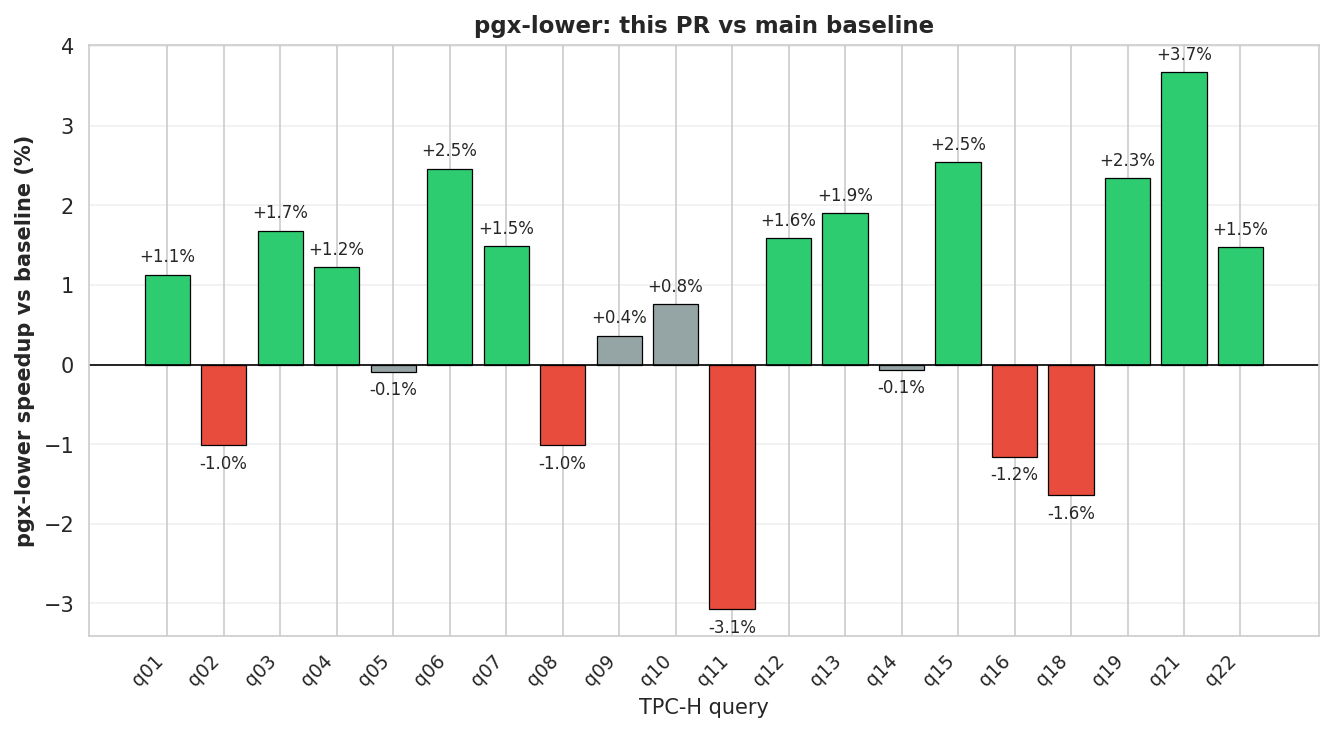
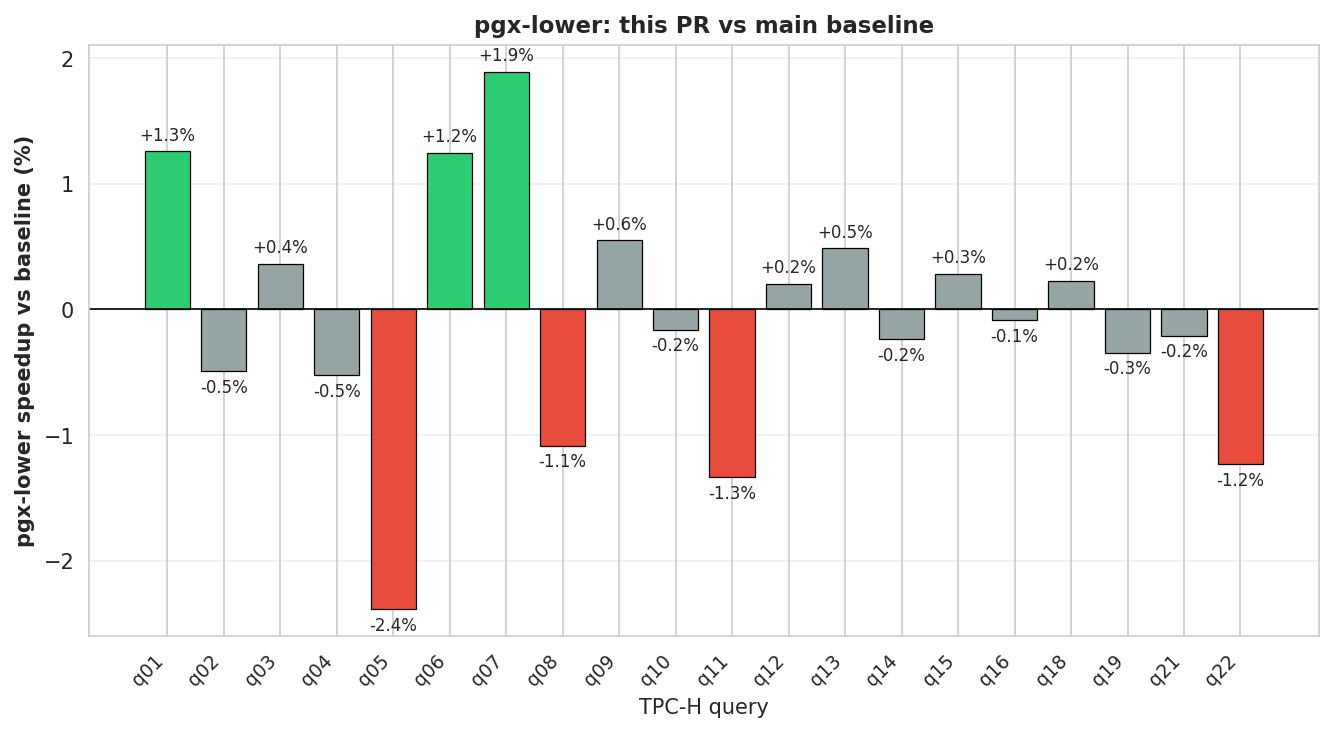
Address review feedback on PR #33
- Delete dead setupMLIRContextForJIT + initialize_mlir_context from
  mlir_runner_passes.cpp; standalone test harness now loads dialects
  inline. Removes forward decls from mlir_runner.h / mlir_pipeline.h.
- Fix diagnostic handler severity dispatch in mlir_runtime.cpp: Error
  → PGX_ERROR, Warning → PGX_WARNING, Note/Remark → PGX_LOG(DEBUG).
  Previously all severities fell through to PGX_WARNING.
- Re-run SF=0.5 bench: q11 settled to -1.3% (was -3.1%) — single-sample
  noise on iter=1, not a real regression. Geomean ~flat, verdict MAYBE.

diff --git a/src/pgx-lower/execution/mlir_setup/mlir_runner_passes.cpp b/src/pgx-lower/execution/mlir_setup/mlir_runner_passes.cpp
@@ -47,72 +47,8 @@ extern "C" void initialize_mlir_passes() {
     }
 }
 
-namespace mlir_runner {
-
-bool setupMLIRContextForJIT(::mlir::MLIRContext& context) {
-    if (!initialize_mlir_context(context)) {
-        PGX_ERROR("Failed to initialize MLIR context and dialects");
-        return false;
-    }
-
-    context.getDiagEngine().registerHandler([](mlir::Diagnostic &diag) {
-        std::string diagStr;
-        llvm::raw_string_ostream os(diagStr);
-        
-        std::string locStr;
-        llvm::raw_string_ostream locOs(locStr);
-        diag.getLocation().print(locOs);
-        locOs.flush();
-        
-        diag.print(os);
-        os.flush();
-        
-        switch (diag.getSeverity()) {
-            case mlir::DiagnosticSeverity::Error:
-            case mlir::DiagnosticSeverity::Warning:
-            case mlir::DiagnosticSeverity::Note:
-            case mlir::DiagnosticSeverity::Remark:
-                PGX_WARNING("MLIR Note at %s: %s",
-                       locStr.empty() ? "unknown" : locStr.c_str(), 
-                       diagStr.c_str());
-                break;
-        }
-        
-        return mlir::success();
-    });
-
-    context.getOrLoadDialect<::mlir::relalg::RelAlgDialect>();
-    context.getOrLoadDialect<::mlir::db::DBDialect>();
-    context.getOrLoadDialect<::mlir::dsa::DSADialect>();
-    context.getOrLoadDialect<::mlir::util::UtilDialect>();
-    context.getOrLoadDialect<mlir::LLVM::LLVMDialect>();
-    context.getOrLoadDialect<mlir::scf::SCFDialect>();
-    context.getOrLoadDialect<mlir::memref::MemRefDialect>();
-    context.getOrLoadDialect<mlir::cf::ControlFlowDialect>();
-
-    return true;
-}
-
-bool initialize_mlir_context(::mlir::MLIRContext& context) {
-    try {
-        context.disableMultithreading();
-
-        context.getOrLoadDialect<mlir::func::FuncDialect>();
-        context.getOrLoadDialect<mlir::arith::ArithDialect>();
-        context.getOrLoadDialect<::mlir::relalg::RelAlgDialect>();
-        context.getOrLoadDialect<::mlir::db::DBDialect>();
-        context.getOrLoadDialect<::mlir::dsa::DSADialect>();
-        context.getOrLoadDialect<::mlir::util::UtilDialect>();
-
-        return true;
-
-    } catch (const std::exception& e) {
-        PGX_ERROR("Failed to initialize MLIR context: %s", e.what());
-        return false;
-    } catch (...) {
-        PGX_ERROR("Unknown error during MLIR context initialization");
-        return false;
-    }
-}
-
-} // namespace mlir_runner
+// setupMLIRContextForJIT + initialize_mlir_context used to live here.
+// Spec 01 hoisted all per-query MLIR-context setup into the
+// MLIRRuntime singleton (mlir_runtime.cpp). The unit-test harness
+// StandalonePipelineTester loads dialects inline for its own fresh
+// context.

diff --git a/tests/unit/test_lowerings/standalone_mlir_runner.cpp b/tests/unit/test_lowerings/standalone_mlir_runner.cpp
@@ -6,6 +6,15 @@
 #include "llvm/Support/raw_ostream.h"
 #include "pgx-lower/execution/mlir_runner.h"
 #include "lingodb/mlir/Dialect/RelAlg/IR/RelAlgDialect.h"
+#include "lingodb/mlir/Dialect/DB/IR/DBDialect.h"
+#include "lingodb/mlir/Dialect/DSA/IR/DSADialect.h"
+#include "lingodb/mlir/Dialect/util/UtilDialect.h"
+#include "mlir/Dialect/Arith/IR/Arith.h"
+#include "mlir/Dialect/ControlFlow/IR/ControlFlow.h"
+#include "mlir/Dialect/Func/IR/FuncOps.h"
+#include "mlir/Dialect/LLVMIR/LLVMDialect.h"
+#include "mlir/Dialect/MemRef/IR/MemRef.h"
+#include "mlir/Dialect/SCF/IR/SCF.h"
 
 namespace pgx_test {
 
@@ -15,8 +24,22 @@ StandalonePipelineTester::StandalonePipelineTester() {
 }
 
 bool StandalonePipelineTester::setupMLIRContext() {
+    // Test harness wants a fresh MLIRContext per test to avoid state
+    // bleed between TEST_F instances. Load the same dialect set that
+    // production (MLIRRuntime singleton) loads.
     context_ = std::make_unique<mlir::MLIRContext>();
-    return mlir_runner::setupMLIRContextForJIT(*context_);
+    context_->disableMultithreading();
+    context_->getOrLoadDialect<mlir::func::FuncDialect>();
+    context_->getOrLoadDialect<mlir::arith::ArithDialect>();
+    context_->getOrLoadDialect<mlir::scf::SCFDialect>();
+    context_->getOrLoadDialect<mlir::memref::MemRefDialect>();
+    context_->getOrLoadDialect<mlir::cf::ControlFlowDialect>();
+    context_->getOrLoadDialect<mlir::LLVM::LLVMDialect>();
+    context_->getOrLoadDialect<mlir::relalg::RelAlgDialect>();
+    context_->getOrLoadDialect<mlir::db::DBDialect>();
+    context_->getOrLoadDialect<mlir::dsa::DSADialect>();
+    context_->getOrLoadDialect<mlir::util::UtilDialect>();
+    return true;
 }
 
 mlir::OpBuilder* StandalonePipelineTester::getBuilder() {

diff --git a/src/pgx-lower/execution/mlir_setup/mlir_runtime.cpp b/src/pgx-lower/execution/mlir_setup/mlir_runtime.cpp
@@ -79,14 +79,17 @@ void install_diagnostic_handler(mlir::MLIRContext& context) {
         diag.print(os);
         os.flush();
 
+        const char* loc = locStr.empty() ? "unknown" : locStr.c_str();
         switch (diag.getSeverity()) {
             case mlir::DiagnosticSeverity::Error:
+                PGX_ERROR("MLIR Error at %s: %s", loc, diagStr.c_str());
+                break;
             case mlir::DiagnosticSeverity::Warning:
+                PGX_WARNING("MLIR Warning at %s: %s", loc, diagStr.c_str());
+                break;
             case mlir::DiagnosticSeverity::Note:
             case mlir::DiagnosticSeverity::Remark:
-                PGX_WARNING("MLIR Note at %s: %s",
-                            locStr.empty() ? "unknown" : locStr.c_str(),
-                            diagStr.c_str());
+                PGX_LOG(GENERAL, DEBUG, "MLIR Note at %s: %s", loc, diagStr.c_str());
                 break;
         }
 

diff --git a/include/pgx-lower/execution/mlir_runner.h b/include/pgx-lower/execution/mlir_runner.h
@@ -28,8 +28,6 @@ namespace mlir_runner {
 
 using ExternalFunction = std::function<int64_t()>;
 
-bool initialize_mlir_context(::mlir::MLIRContext& context);
-bool setupMLIRContextForJIT(::mlir::MLIRContext& context);
 bool executeJITWithDestReceiver(mlir::ModuleOp module, EState* estate, DestReceiver* dest);
 auto run_mlir_postgres_ast_translation(PlannedStmt* plannedStmt) -> bool;
 auto run_mlir_with_estate(PlannedStmt* plannedStmt, EState* estate, ExprContext* econtext) -> bool;

diff --git a/src/pgx-lower/execution/mlir_runner.cpp b/src/pgx-lower/execution/mlir_runner.cpp
@@ -56,7 +56,6 @@ extern "C" {
 
 namespace mlir_runner {
 
-bool setupMLIRContextForJIT(::mlir::MLIRContext& context);
 bool runCompleteLoweringPipeline(::mlir::ModuleOp module);
 bool executeJITWithDestReceiver(::mlir::ModuleOp module, EState* estate, DestReceiver* dest);
 

diff --git a/include/pgx-lower/execution/mlir_pipeline.h b/include/pgx-lower/execution/mlir_pipeline.h
@@ -8,7 +8,6 @@ class ModuleOp;
 
 namespace mlir_runner {
 
-bool setupMLIRContextForJIT(::mlir::MLIRContext& context);
 bool runPhase3a(::mlir::ModuleOp module);
 bool runPhase3b(::mlir::ModuleOp module);
 bool runPhase3c(::mlir::ModuleOp module);

diff --git a/benchmarks/pr-33-spec-01-hoist.md b/benchmarks/pr-33-spec-01-hoist.md
@@ -1,8 +1,8 @@
 ## 🟡 MAYBE — in the noise band
 
-- **Geomean speedup vs baseline:** +0.7% ⚪
+- **Geomean speedup vs baseline:** -0.1% ⚪
 - **Scale factor:** 0.5, iterations: 1
-- **Baseline:** `unknown` (2026-04-19T11:26:13.653812)
+- **Baseline:** `unknown` (2026-04-19T22:00:59.163496)
 - **Current:**  `unknown` (2026-04-19T22:04:09.662712)
 
 ![bench diff](https://raw.githubusercontent.com/zyros-dev/pgx-lower/spec-01-hoist/benchmarks/pr-33-spec-01-hoist.png)
@@ -11,23 +11,23 @@ PG column is PostgreSQL-only runtime from the current run — reference for abso
 
 | Query | PG (ms) | pgx baseline (ms) | pgx current (ms) | Δ | ✓ |
 |-------|--------:|------------------:|-----------------:|--:|:--|
-| q01 | 916.6 | 5236.5 | 5177.4 | +1.1% 🟢 | ✅ |
-| q02 | 125.0 | 2048.5 | 2069.3 | -1.0% 🔴 | ✅ |
-| q03 | 297.6 | 6263.8 | 6158.7 | +1.7% 🟢 | ✅ |
-| q04 | 102.9 | 2603.3 | 2571.6 | +1.2% 🟢 | ✅ |
-| q05 | 115.4 | 3294.2 | 3297.1 | -0.1% ⚪ | ✅ |
-| q06 | 149.2 | 2844.2 | 2774.3 | +2.5% 🟢 | ✅ |
-| q07 | 159.3 | 3468.2 | 3416.6 | +1.5% 🟢 | ✅ |
-| q08 | 258.5 | 3547.7 | 3583.7 | -1.0% 🔴 | ✅ |
-| q09 | 583.8 | 6503.9 | 6480.5 | +0.4% ⚪ | ✅ |
-| q10 | 258.9 | 5897.7 | 5853.1 | +0.8% ⚪ | ✅ |
-| q11 | 56.9 | 1331.0 | 1372.0 | -3.1% 🔴 | ✅ |
-| q12 | 234.2 | 3121.5 | 3072.0 | +1.6% 🟢 | ✅ |
-| q13 | 568.4 | 1646.4 | 1615.1 | +1.9% 🟢 | ✅ |
-| q14 | 155.3 | 2569.0 | 2570.6 | -0.1% ⚪ | ✅ |
-| q15 | 155.6 | 2835.5 | 2763.5 | +2.5% 🟢 | ✅ |
-| q16 | 151.7 | 2289.2 | 2315.8 | -1.2% 🔴 | ✅ |
-| q18 | 1228.2 | 13217.8 | 13434.9 | -1.6% 🔴 | ✅ |
-| q19 | 226.8 | 4276.6 | 4176.7 | +2.3% 🟢 | ✅ |
-| q21 | 257.8 | 7021.3 | 6763.3 | +3.7% 🟢 | ✅ |
-| q22 | 92.4 | 905.3 | 891.9 | +1.5% 🟢 | ✅ |
+| q01 | 916.6 | 5243.4 | 5177.4 | +1.3% 🟢 | ✅ |
+| q02 | 125.0 | 2059.2 | 2069.3 | -0.5% ⚪ | ✅ |
+| q03 | 297.6 | 6181.2 | 6158.7 | +0.4% ⚪ | ✅ |
+| q04 | 102.9 | 2558.2 | 2571.6 | -0.5% ⚪ | ✅ |
+| q05 | 115.4 | 3220.3 | 3297.1 | -2.4% 🔴 | ✅ |
+| q06 | 149.2 | 2809.3 | 2774.3 | +1.2% 🟢 | ✅ |
+| q07 | 159.3 | 3482.4 | 3416.6 | +1.9% 🟢 | ✅ |
+| q08 | 258.5 | 3545.2 | 3583.7 | -1.1% 🔴 | ✅ |
+| q09 | 583.8 | 6516.4 | 6480.5 | +0.6% ⚪ | ✅ |
+| q10 | 258.9 | 5843.6 | 5853.1 | -0.2% ⚪ | ✅ |
+| q11 | 56.9 | 1353.9 | 1372.0 | -1.3% 🔴 | ✅ |
+| q12 | 234.2 | 3078.3 | 3072.0 | +0.2% ⚪ | ✅ |
+| q13 | 568.4 | 1623.0 | 1615.1 | +0.5% ⚪ | ✅ |
+| q14 | 155.3 | 2564.6 | 2570.6 | -0.2% ⚪ | ✅ |
+| q15 | 155.6 | 2771.4 | 2763.5 | +0.3% ⚪ | ✅ |
+| q16 | 151.7 | 2313.8 | 2315.8 | -0.1% ⚪ | ✅ |
+| q18 | 1228.2 | 13465.9 | 13434.9 | +0.2% ⚪ | ✅ |
+| q19 | 226.8 | 4162.4 | 4176.7 | -0.3% ⚪ | ✅ |
+| q21 | 257.8 | 6749.4 | 6763.3 | -0.2% ⚪ | ✅ |
+| q22 | 92.4 | 881.1 | 891.9 | -1.2% 🔴 | ✅ |
